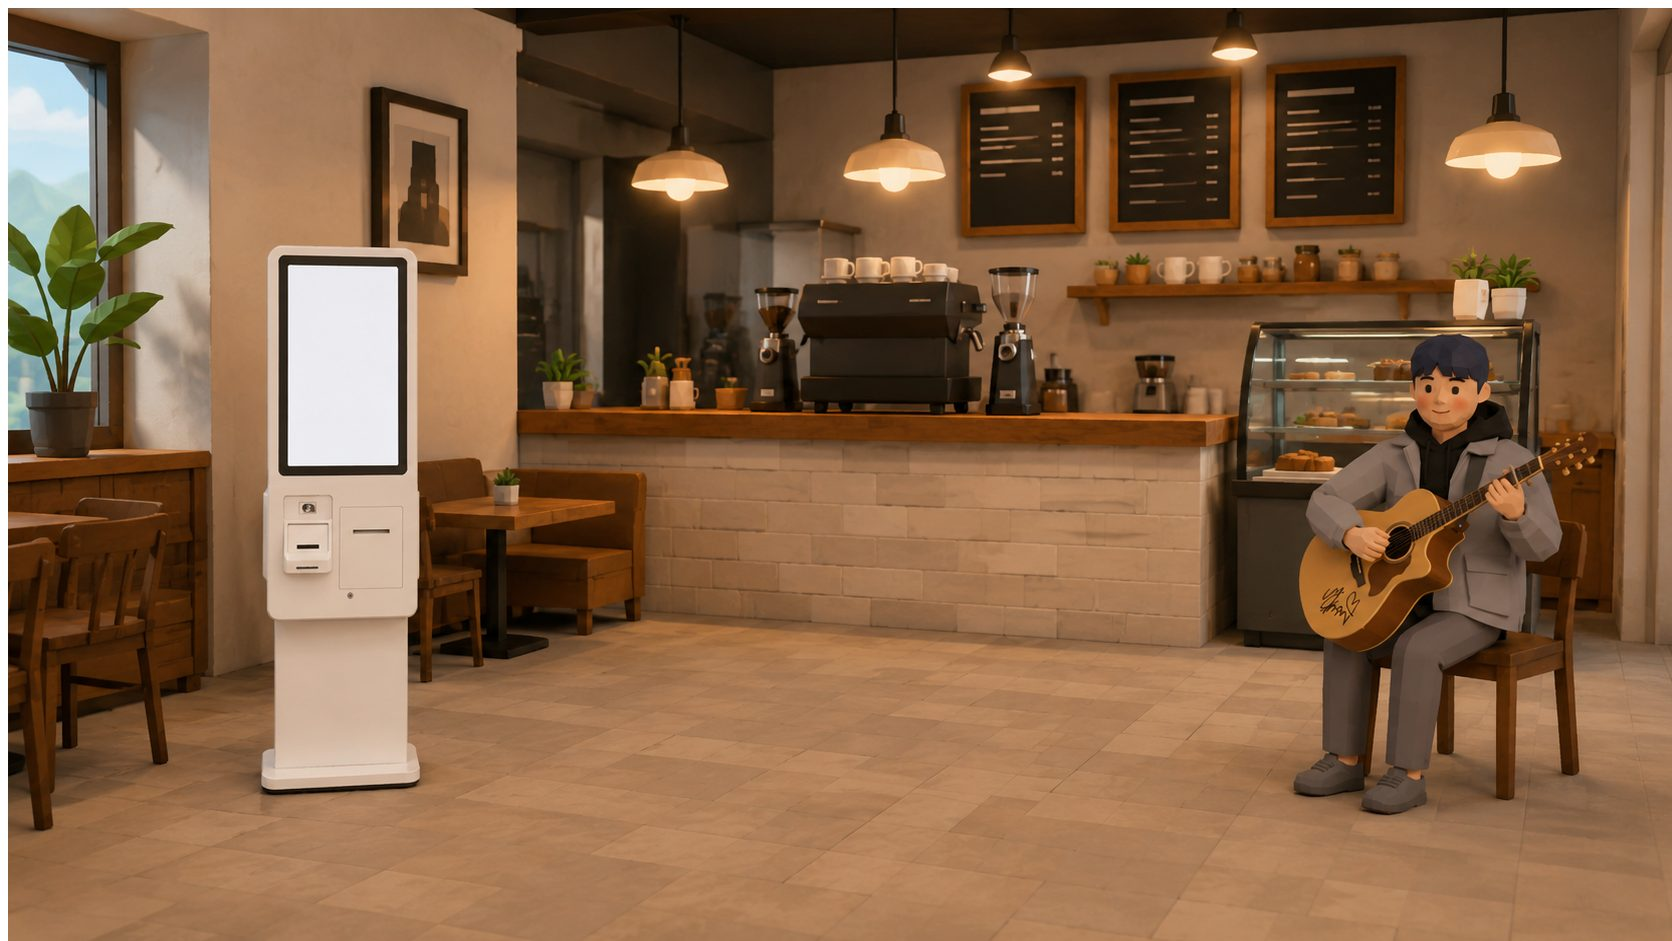
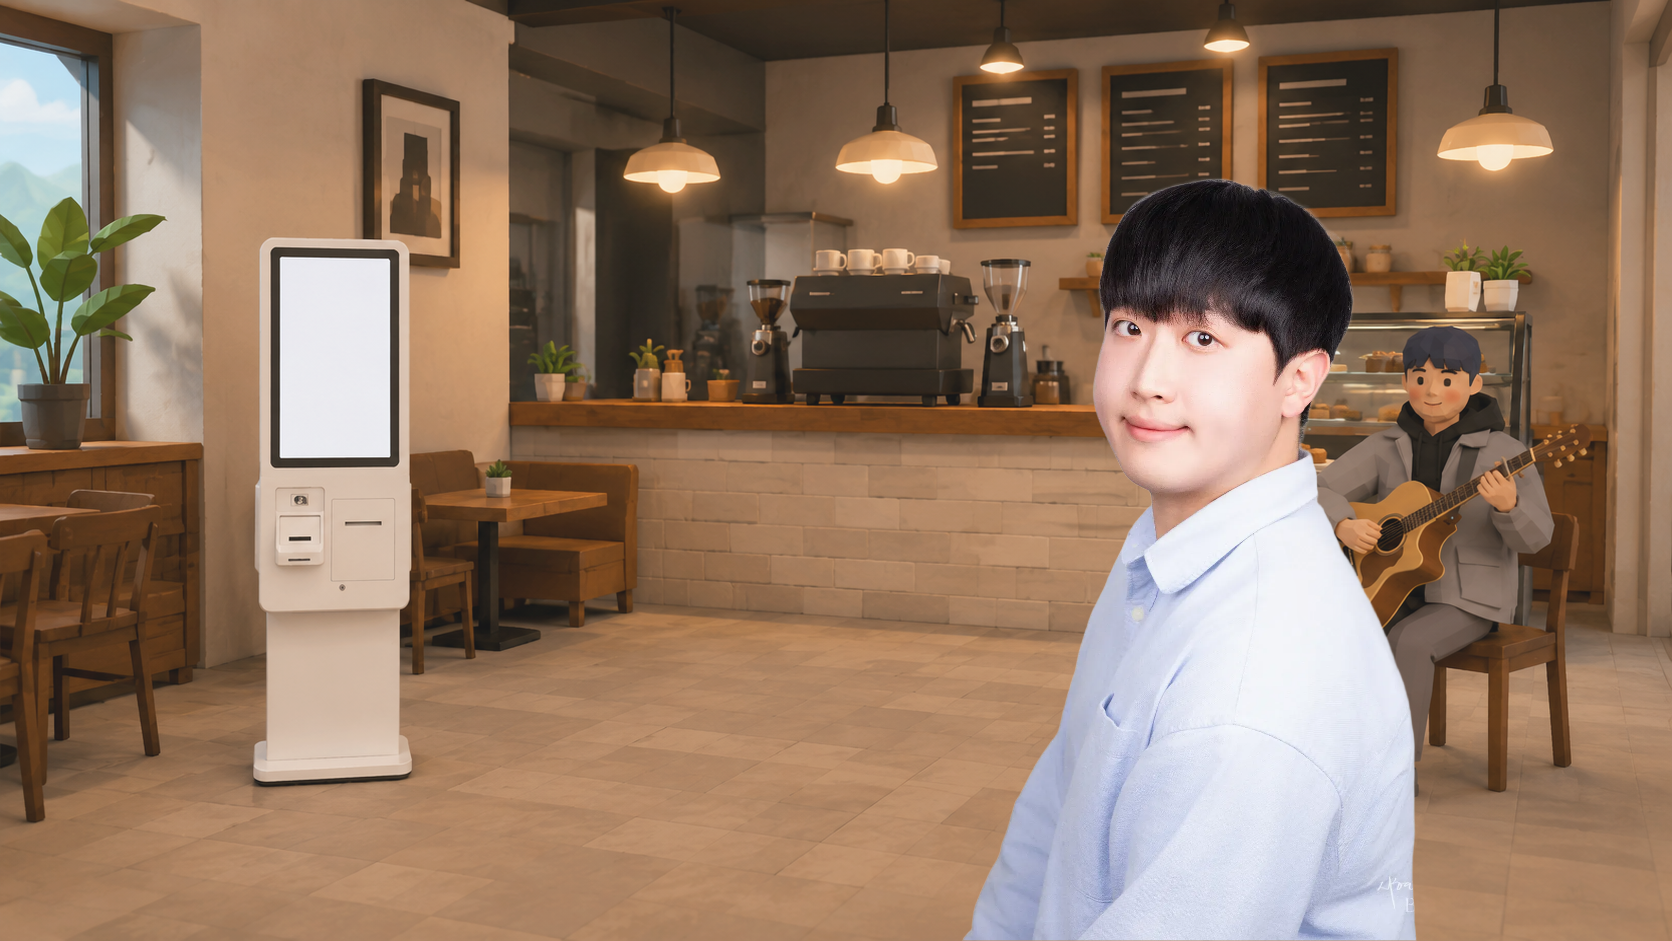
fix: 이미지 변경

diff --git a/src/styles/global.css b/src/styles/global.css
@@ -514,10 +514,11 @@ body::-webkit-scrollbar-thumb:hover{background:#4C556E}
 }
 .pf-demo__stage{
   position:relative;display:flex;align-items:center;justify-content:center;
-  border:1px solid rgba(255,255,255,.22);background:#fff;overflow:hidden;
+  /* 로드 전에는 '꺼진 화면'(어두움) — 흰 배경이면 시작할 때 흰색이 번쩍인다 */
+  border:1px solid rgba(255,255,255,.22);background:#0A0D18;overflow:hidden;
   box-shadow:0 30px 80px rgba(0,0,0,.5);transition:border-color .3s ease,box-shadow .3s ease;
 }
-.pf-demo__scaler{position:relative;overflow:hidden;background:#fff}
+.pf-demo__scaler{position:relative;overflow:hidden;background:transparent}
 .pf-demo__frame{position:absolute;top:0;left:0;border:0;transform-origin:top left;background:#fff;display:block}
 .pf-demo__shield{position:absolute;inset:0;cursor:default}
 .pf-demo__steps--dim{opacity:.45}
@@ -752,7 +753,7 @@ html.fixed-canvas .pf-3d{left:0;right:0}
   border:9px solid #1B1F2E;border-radius:10px;overflow:hidden;
   box-shadow:0 30px 60px rgba(0,0,0,.55),inset 0 0 0 1px rgba(255,255,255,.08);
 }
-.pf-monitor__screen .pf-demo__stage{position:absolute;inset:0;border:0;box-shadow:none;background:#fff}
+.pf-monitor__screen .pf-demo__stage{position:absolute;inset:0;border:0;box-shadow:none;background:#0A0D18}
 .pf-monitor__stand{width:110px;height:16px;margin:0 auto;background:linear-gradient(#1B1F2E,#141826);border-radius:0 0 4px 4px}
 .pf-monitor__base{width:240px;height:7px;margin:0 auto;background:#232838;border-radius:4px}
 
